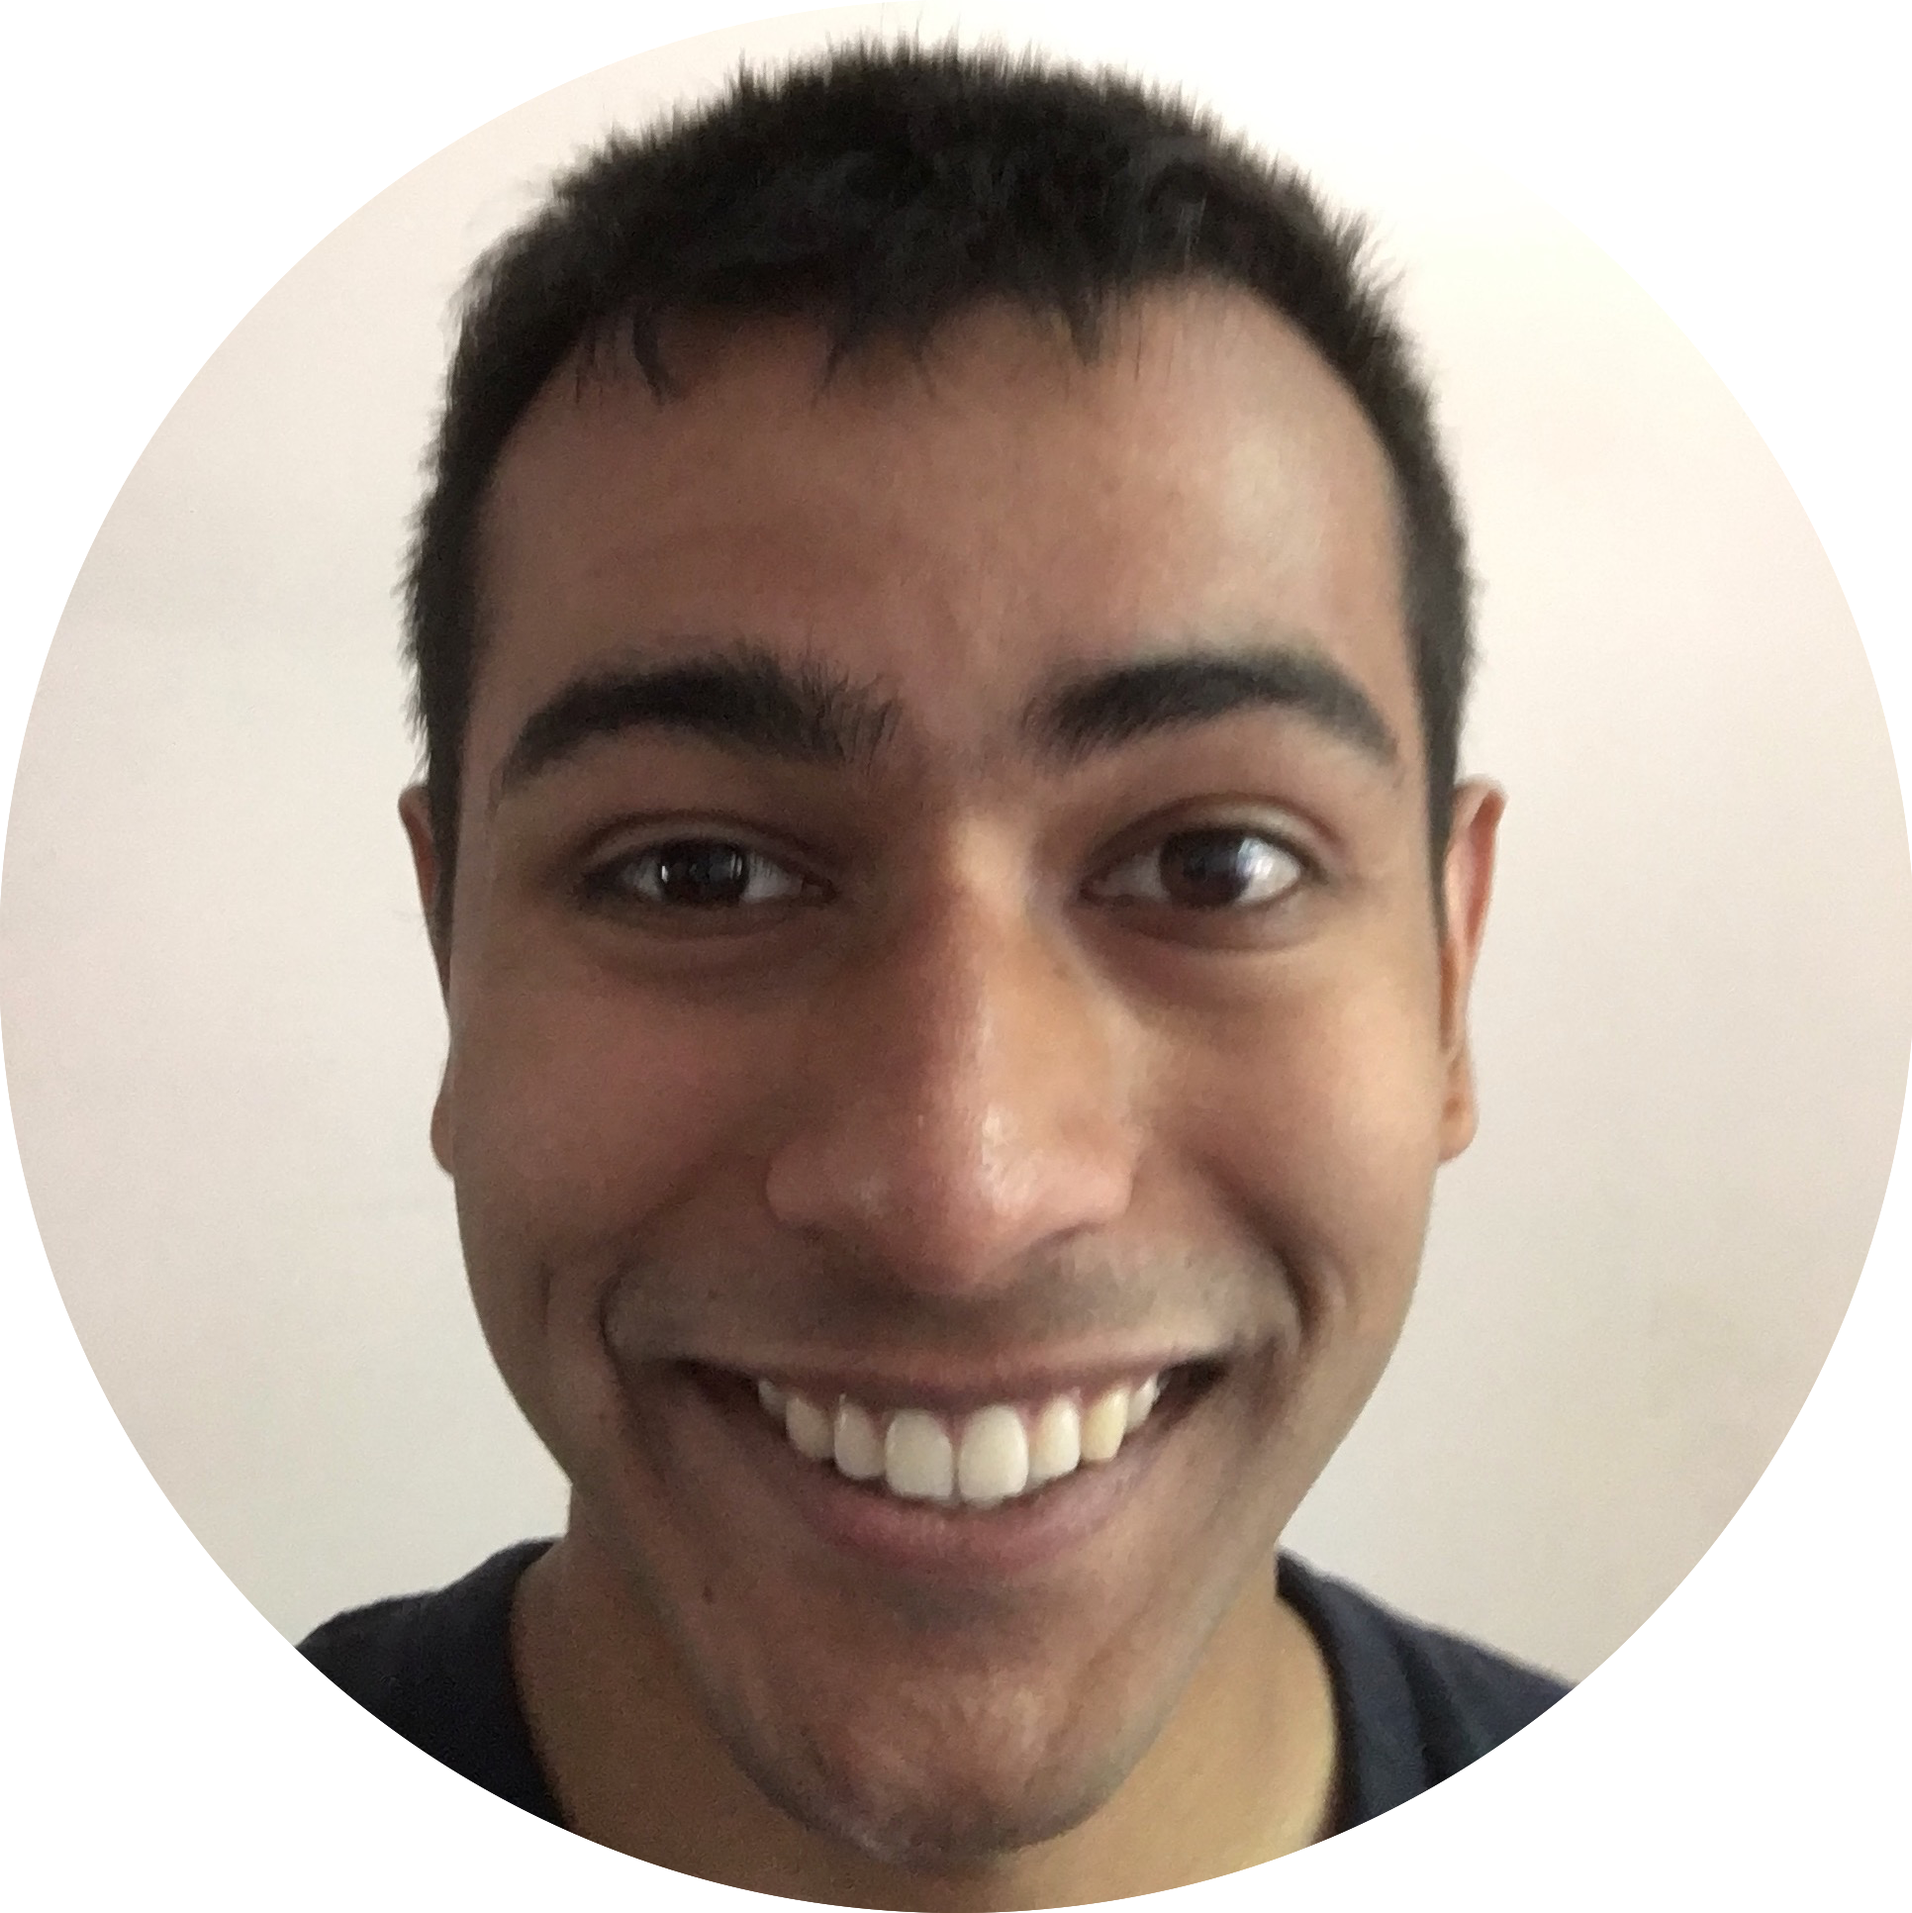
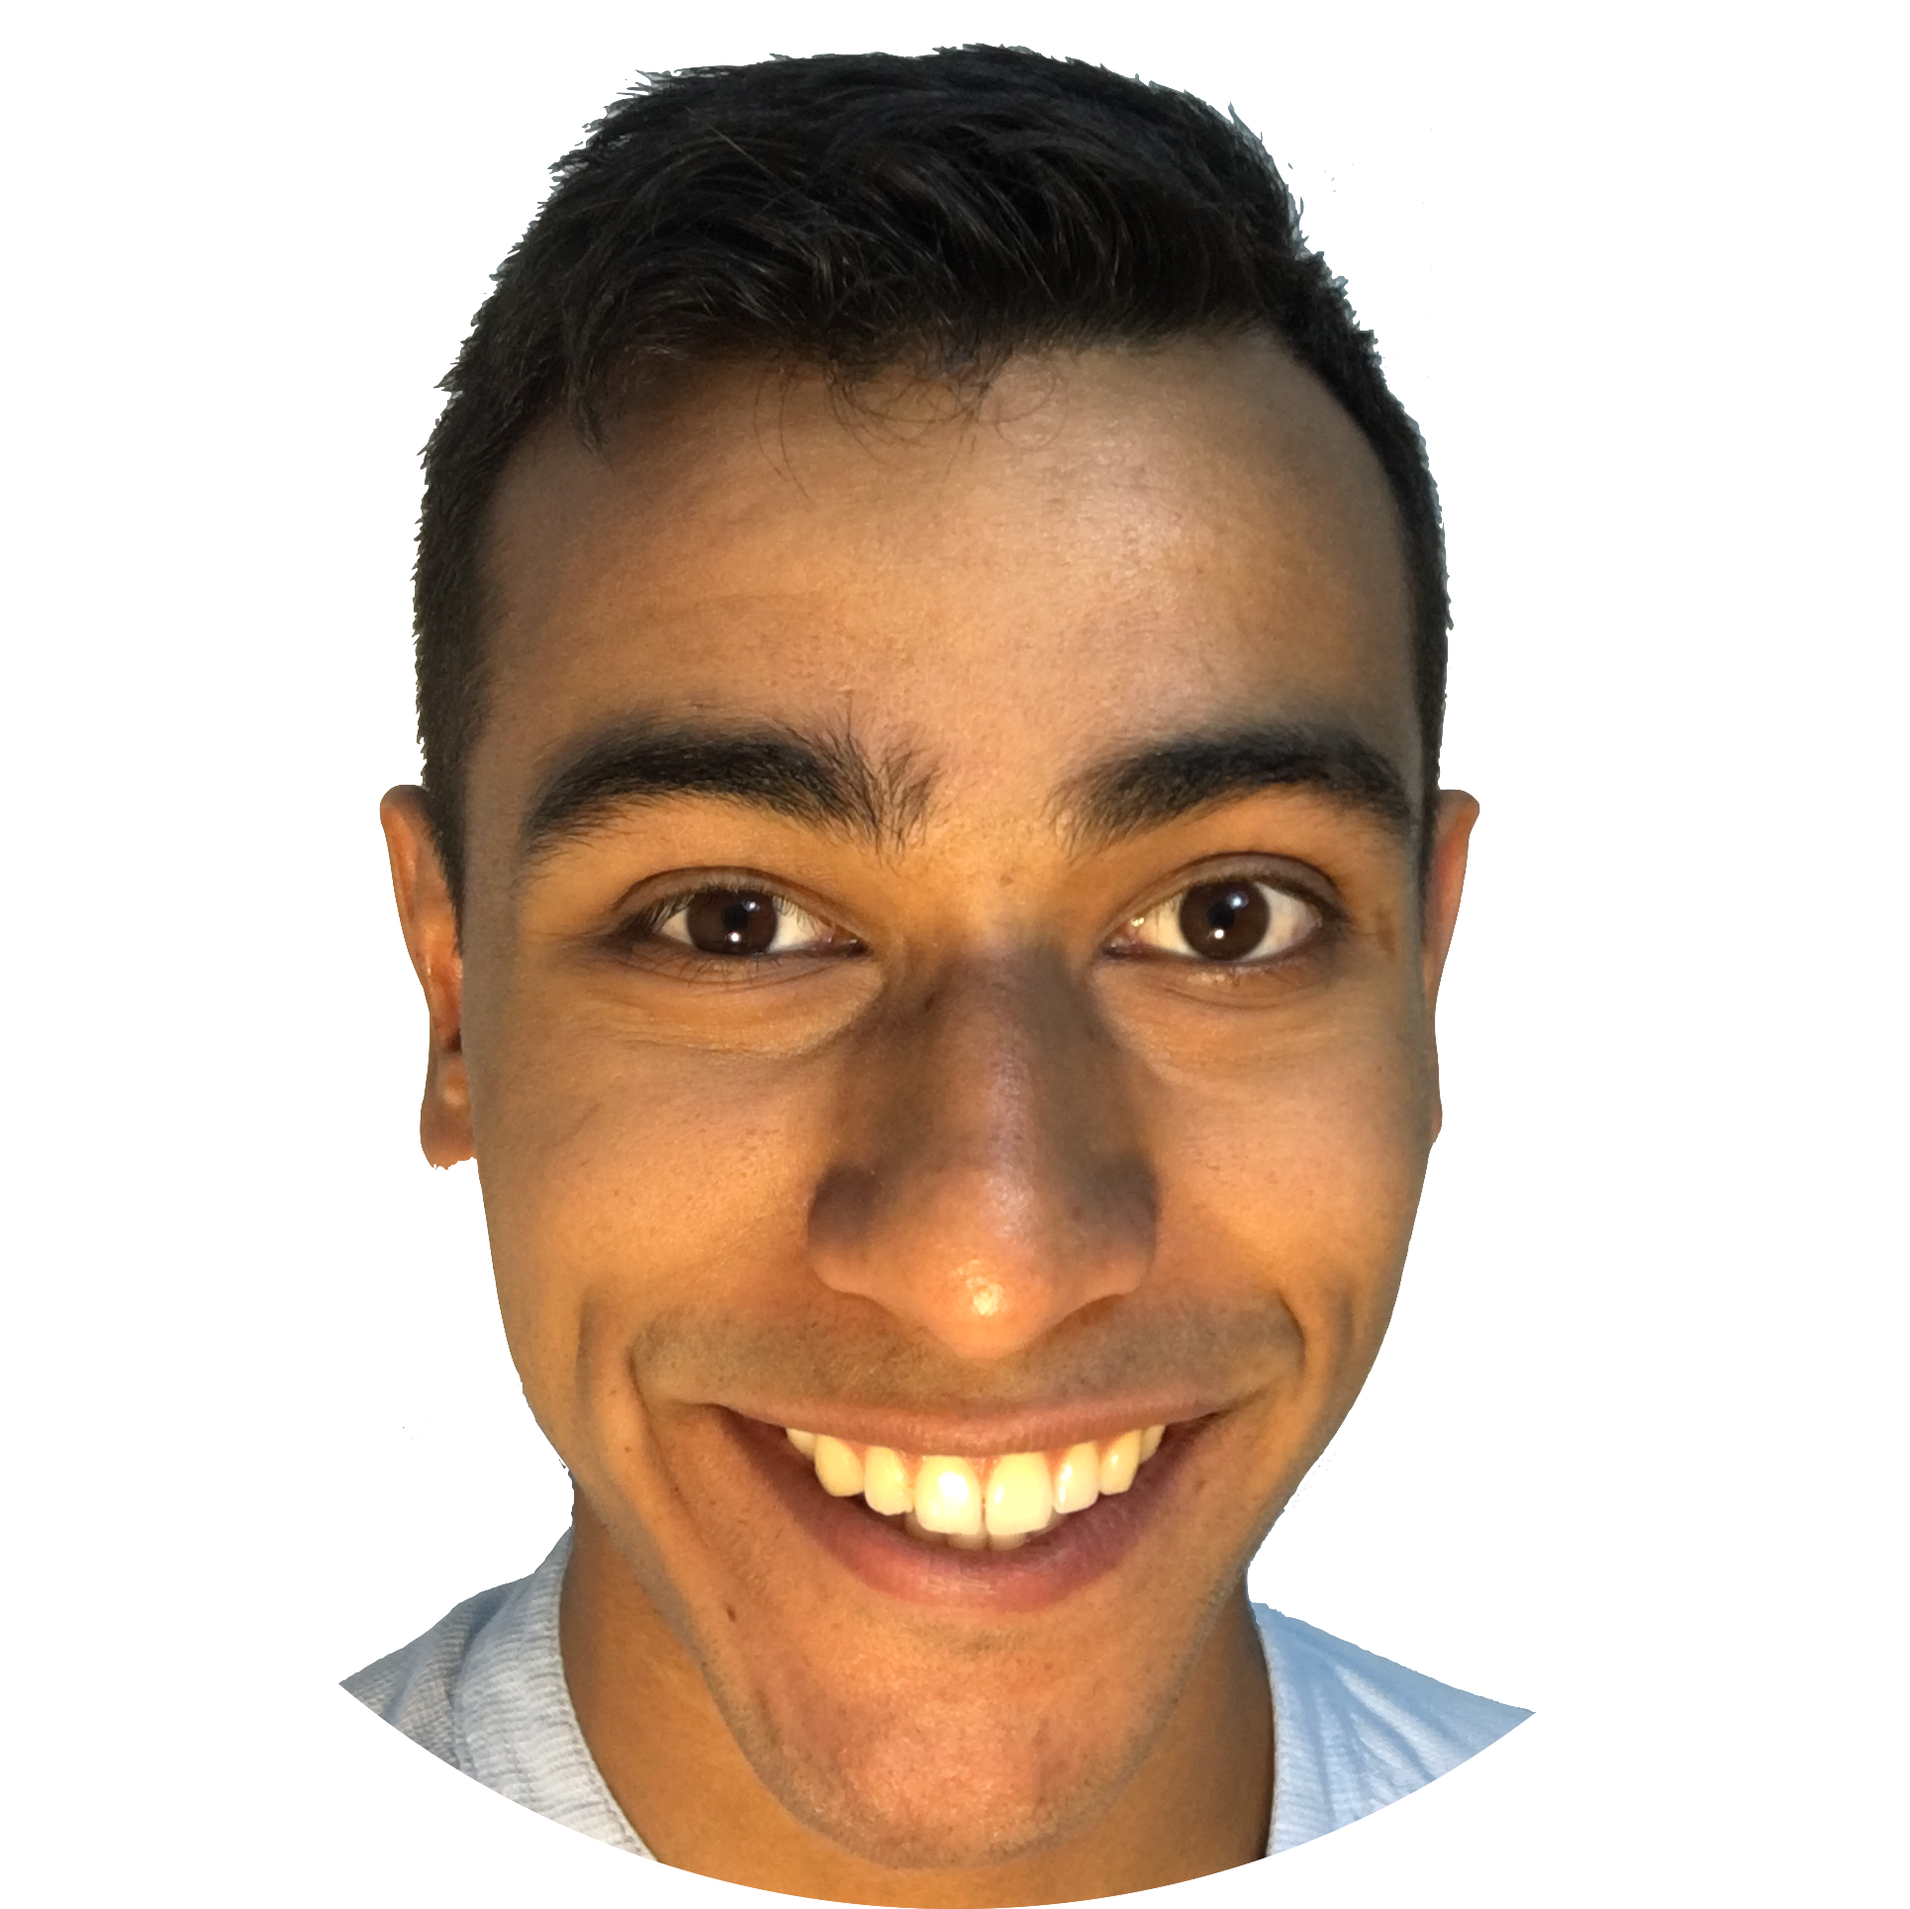
Add pportrait and tagline

diff --git a/css/style.css b/css/style.css
@@ -32,7 +32,7 @@ body {
 
 .slide1 {
 	background-color: var(--accent-color);
-	padding: 100px 0;
+	padding: 90px 0 70px 0;
 }
 
 .slide2 {
@@ -45,7 +45,24 @@ body {
 	font-weight: 300;
 	text-align: center;
 	color: var(--base-color);
-	margin-bottom: 50px;
+	margin-bottom: 30px;
+}
+
+.tagline {
+	font-size: 48px;
+	font-weight: 300;
+	text-align: center;
+	color: var(--base-color);
+	margin-bottom: 30px;
+}
+
+.portrait {
+	width: 30%;
+}
+
+.portrait-container {
+	text-align: center;
+	margin-bottom: 20px;
 }
 
 .navbar-background {
@@ -71,6 +88,7 @@ body {
 .navbar-icon-bar {
 	background-color: var(--accent-color);
 }
+
 .modal-header {
 	background-color: var(--accent-color);
 	color: var(--base-color);

diff --git a/index.html b/index.html
@@ -60,6 +60,7 @@
       <div class="portrait-container">
         <img class="portrait" src="img/headshot.png">
       </div>
+      <div class="tagline">Aspiring Data Engineer</div>
       <div class="icons">
 				<div class="icon-container">
 					<a href="resume.pdf" target="_blank" type="application/pdf">
